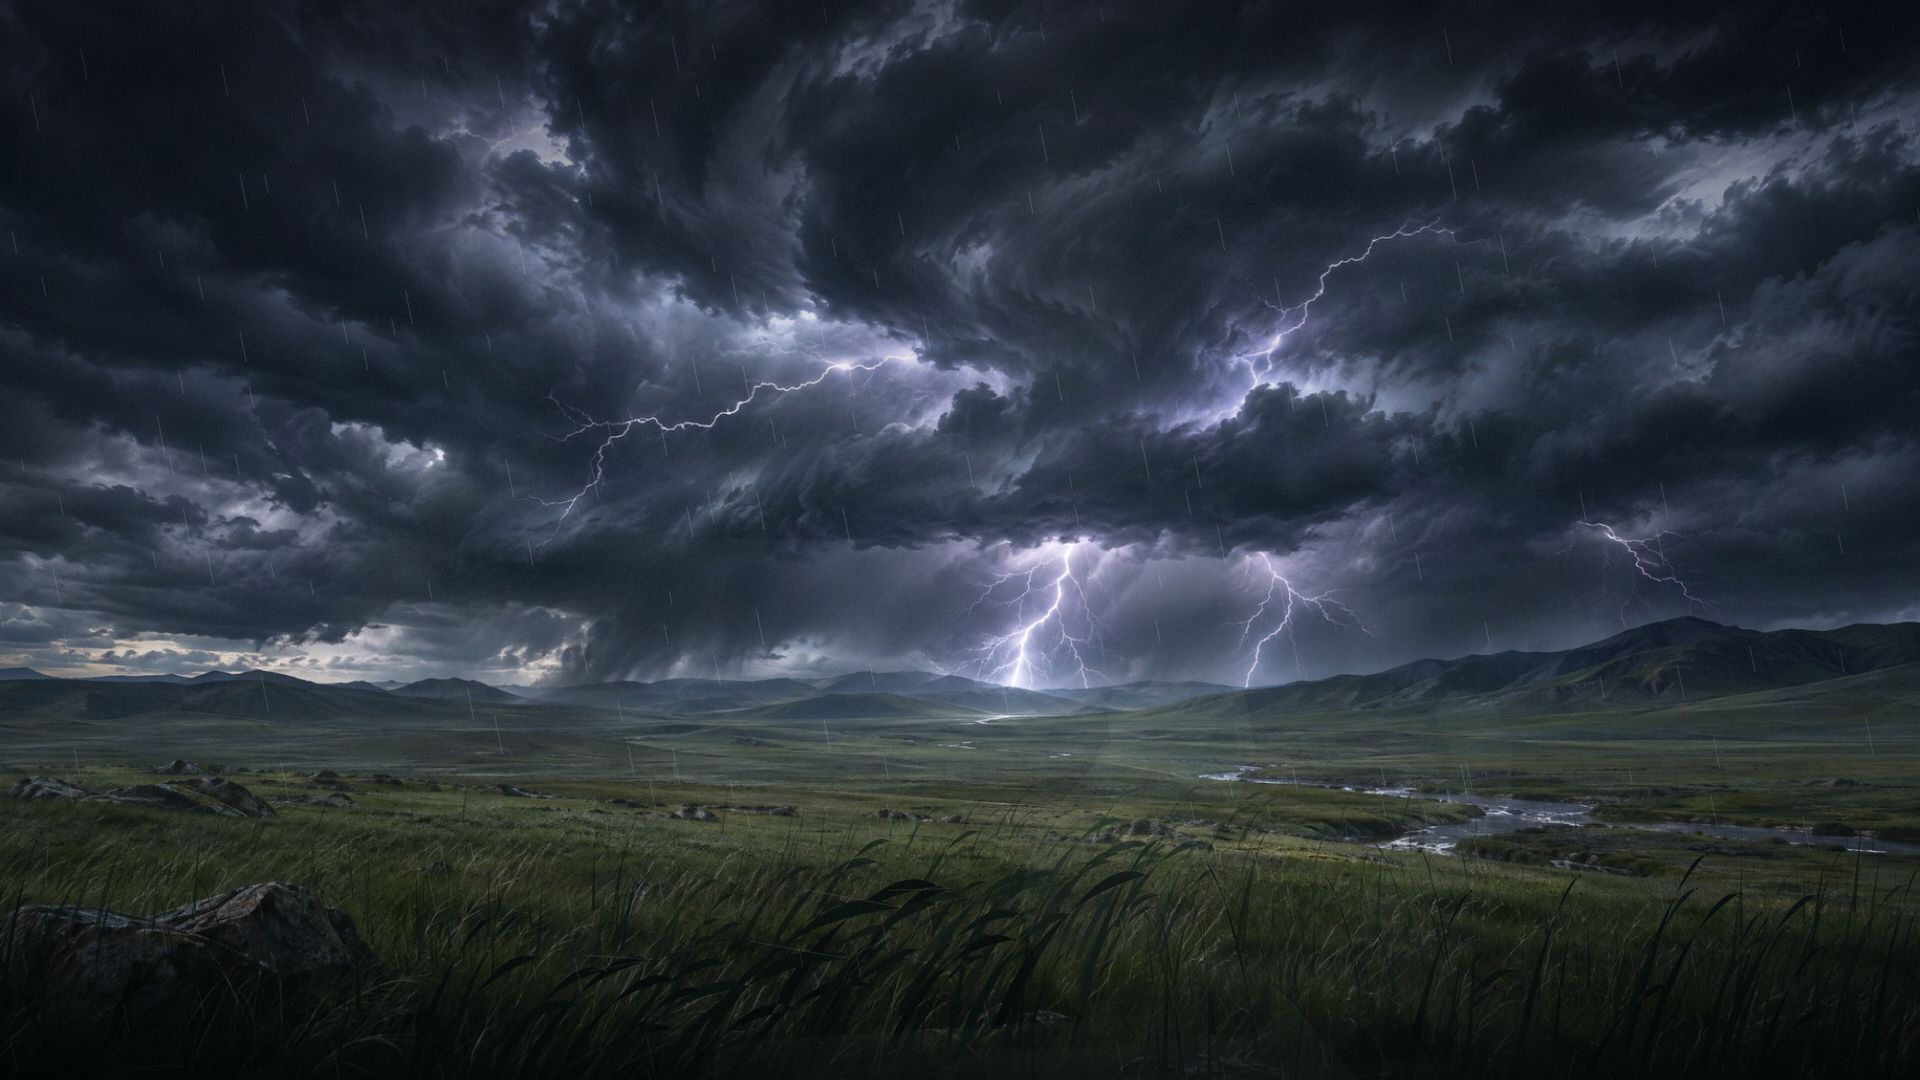
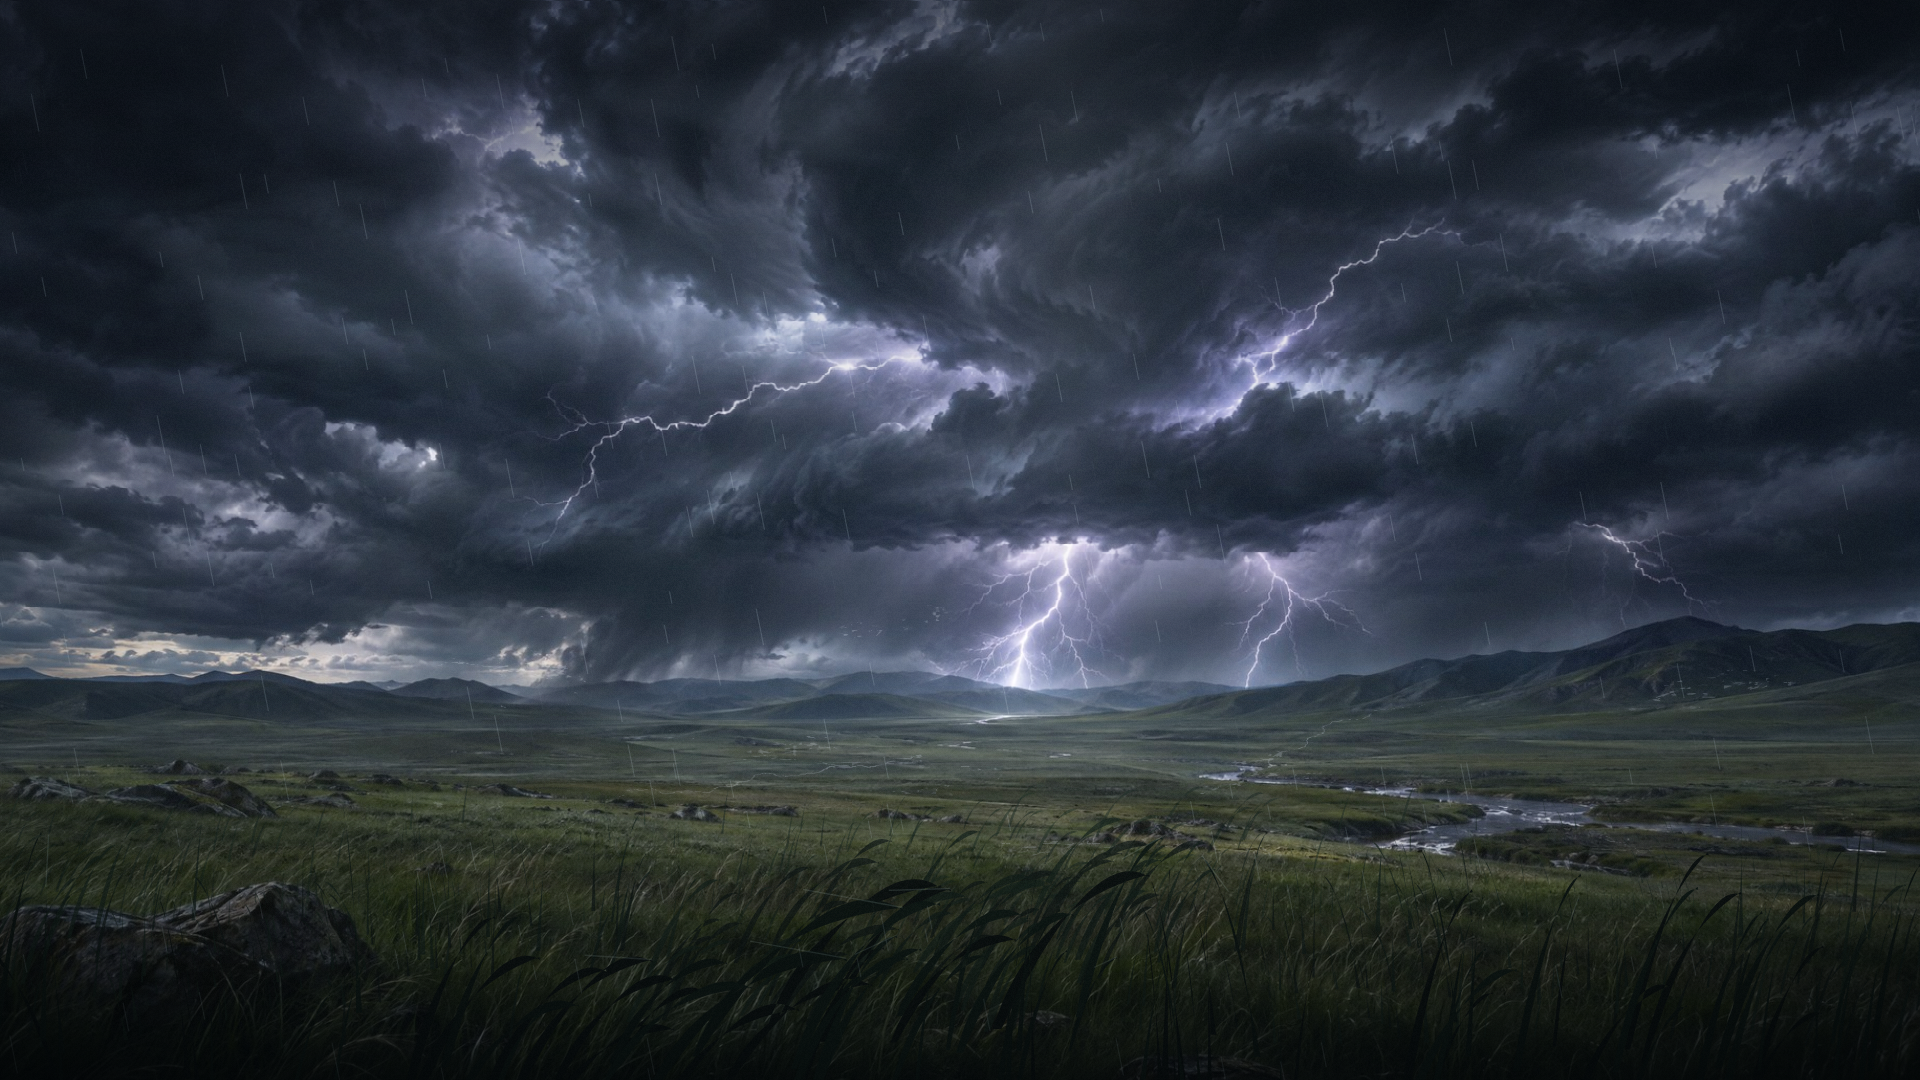
feat(wallpaper): 增强雷原云层翻涌与闪电回击
- 云层增加错位云影与双轴天空波纹，持续翻涌
- 闪电按回击节奏脉冲闪烁并照亮云层
- 移除模拟风的白色高光线条，保留草浪摆动
- 更新 1920x1080 预览图

diff --git a/wallpapers/thunder-prairie/wallpaper.html b/wallpapers/thunder-prairie/wallpaper.html
@@ -585,6 +585,9 @@
   let bgReady = false;
   let photoFrame = null;
   let photoFrameCtx = null;
+  let maskFrame = null;
+  let maskFrameCtx = null;
+  let boltMaskSprite = null;
   let photoPulse = -99;
   let previewDone = false;
 
@@ -593,6 +596,7 @@
     bgImage.decoding = 'async';
     bgImage.onload = () => {
       bgReady = true;
+      if (PHOTO_MODE && !boltMaskSprite) buildBoltMask();
       if (PREVIEW && !previewDone) setupPreview();
     };
     bgImage.src = BG_DATA;
@@ -634,6 +638,7 @@
 
   let cloudLayers = [];
   let cloudWisps = [];
+  let cloudVeils = [];
   let grassLayers = [];
   let treeSegments = [];
   let treeSegmentsSmall = [];
@@ -1072,34 +1077,6 @@
     }
     ctx.globalAlpha = 1;
 
-    // Wind waves: a moving band of lit seed heads rolls across the plain.
-    ctx.save();
-    ctx.globalCompositeOperation = 'screen';
-    for (let li = 1; li < grassLayers.length; li++) {
-      const layer = grassLayers[li];
-      const path = new Path2D();
-      for (let gi = 0; gi < layer.groups.length; gi++) {
-        const group = layer.groups[gi];
-        for (let i = 0; i < group.length; i += 3) {
-          const b = group[i];
-          const wave = Math.sin(b.x * .0072 - t * 1.05 + b.y * .006);
-          if (wave < .52) continue;
-          const w = windAt(b.x, b.y, t);
-          const sway = b.lean + w * (.55 + b.flex * .75) +
-            Math.sin(t * 1.8 + b.phase + b.x * .013) * .08;
-          const bend = sway * b.len;
-          const tipX = b.x + bend;
-          const tipY = b.y - b.len * (1 - Math.min(.34, Math.abs(sway) * .4));
-          path.moveTo(b.x + bend * .55, b.y - b.len * .66);
-          path.lineTo(tipX, tipY);
-        }
-      }
-      ctx.strokeStyle = 'rgba(138, 168, 140, ' + (.14 + li * .018) + ')';
-      ctx.lineWidth = Math.max(.6, (li + 1) * .42);
-      ctx.stroke(path);
-    }
-    ctx.restore();
-
     // A cold sheen catches the seed heads when the lightning fires.
     if (flashTint > .02) {
       ctx.globalCompositeOperation = 'screen';
@@ -1308,8 +1285,6 @@
     if (PREVIEW && !opts.preview) return;
 
     if (PHOTO_MODE) {
-      // The photograph already holds the great bolts. We animate their light,
-      // and occasionally let a small crawler run through the upper cloud.
       photoPulse = time;
       flashX = W * .555;
       flashY = H * .47;
@@ -1415,7 +1390,7 @@
           if (dt >= p) f += Math.exp(-(dt - p) * 11.5);
         }
       }
-      flash = Math.min(.52, f * .52);
+      flash = Math.min(.68, f * .68);
       for (const bolt of bolts) bolt.energy = boltEnergy(bolt, t);
       return;
     }
@@ -1606,6 +1581,7 @@
       for (const path of bolt.paths) {
         const pts = path.pts;
         const isMain = path === bolt.paths[0];
+        const photo = !!bolt.photo;
         const w = path.width * (isMain ? 1 : .72);
 
         // Wide atmospheric glow.
@@ -1613,7 +1589,7 @@
         fxCtx.moveTo(pts[0].x, pts[0].y);
         for (let i = 1; i < pts.length; i++) fxCtx.lineTo(pts[i].x, pts[i].y);
         fxCtx.strokeStyle = 'rgba(122, 166, 236, ' + (.11 * a * path.alpha) + ')';
-        fxCtx.lineWidth = w * (isMain ? 14 : 8);
+        fxCtx.lineWidth = w * (isMain ? (photo ? 7.5 : 14) : (photo ? 4 : 8));
         fxCtx.stroke();
 
         // Blue-white halo.
@@ -1621,7 +1597,7 @@
         fxCtx.moveTo(pts[0].x, pts[0].y);
         for (let i = 1; i < pts.length; i++) fxCtx.lineTo(pts[i].x, pts[i].y);
         fxCtx.strokeStyle = 'rgba(187, 214, 255, ' + (.40 * a * path.alpha) + ')';
-        fxCtx.lineWidth = w * (isMain ? 3.8 : 2.2);
+        fxCtx.lineWidth = w * (isMain ? (photo ? 2.1 : 3.8) : (photo ? 1.25 : 2.2));
         fxCtx.stroke();
 
         // Core.
@@ -1629,7 +1605,7 @@
         fxCtx.moveTo(pts[0].x, pts[0].y);
         for (let i = 1; i < pts.length; i++) fxCtx.lineTo(pts[i].x, pts[i].y);
         fxCtx.strokeStyle = 'rgba(244, 249, 255, ' + (.96 * a * path.alpha) + ')';
-        fxCtx.lineWidth = w * (isMain ? 1.12 : .7);
+        fxCtx.lineWidth = w * (isMain ? (photo ? .86 : 1.12) : (photo ? .52 : .7));
         fxCtx.stroke();
 
         // Bloom pass.
@@ -1639,7 +1615,7 @@
           bloomCtx.lineTo(pts[i].x * scale, pts[i].y * scale);
         }
         bloomCtx.strokeStyle = 'rgba(168, 202, 255, ' + (.32 * a * path.alpha) + ')';
-        bloomCtx.lineWidth = Math.max(2, w * (isMain ? 9 : 5) * scale);
+        bloomCtx.lineWidth = Math.max(2, w * (isMain ? (photo ? 5 : 9) : (photo ? 3 : 5)) * scale);
         bloomCtx.stroke();
       }
     }
@@ -1656,7 +1632,7 @@
     fxCtx.globalCompositeOperation = 'screen';
 
     // Screen-wide lift.
-    fxCtx.fillStyle = 'rgba(123, 154, 199, ' + (.045 * lf) + ')';
+    fxCtx.fillStyle = 'rgba(123, 154, 199, ' + (.06 * lf) + ')';
     fxCtx.fillRect(0, 0, W, H);
 
     if (PHOTO_MODE) {
@@ -1665,7 +1641,7 @@
       const band = fxCtx.createLinearGradient(flashX - W * .28, 0, flashX + W * .28, 0);
       band.addColorStop(0, 'rgba(160, 188, 218, 0)');
       band.addColorStop(.36, 'rgba(174, 200, 226, ' + (.06 * lf) + ')');
-      band.addColorStop(.5, 'rgba(206, 224, 242, ' + (.13 * lf) + ')');
+      band.addColorStop(.5, 'rgba(206, 224, 242, ' + (.17 * lf) + ')');
       band.addColorStop(.64, 'rgba(174, 200, 226, ' + (.06 * lf) + ')');
       band.addColorStop(1, 'rgba(160, 188, 218, 0)');
       fxCtx.fillStyle = band;
@@ -1726,6 +1702,145 @@
   // ---------------------------------------------------------------------------
   // Photographic storm (default)
   // ---------------------------------------------------------------------------
+
+  function makeCloudVeilTexture(w, h, seed, light) {
+    const c = document.createElement('canvas');
+    c.width = w;
+    c.height = h;
+    const x = c.getContext('2d');
+    const img = x.createImageData(w, h);
+    const data = img.data;
+    const n1 = makeValueNoise(seed);
+    const n2 = makeValueNoise(seed + 37);
+    for (let y = 0; y < h; y++) {
+      const v = y / h;
+      for (let xx = 0; xx < w; xx++) {
+        const u = xx / w;
+        const q = fbm(n1, u * 4, v * 2.2, 4) - .5;
+        const d = fbm(n1, u * 3.4 + q * 2.4, v * 2.6 + q * 1.5, 5);
+        const edge = smoothstep(0, .16, v) * (1 - smoothstep(.72, 1, v)) *
+                     smoothstep(0, .10, u) * (1 - smoothstep(.90, 1, u));
+        const a = smoothstep(.42, .61, d) * edge;
+        if (a < .004) continue;
+        const idx = (y * w + xx) * 4;
+        data[idx] = light ? 118 : 54;
+        data[idx + 1] = light ? 138 : 68;
+        data[idx + 2] = light ? 158 : 86;
+        data[idx + 3] = a * 255;
+      }
+    }
+    x.putImageData(img, 0, 0);
+    return c;
+  }
+
+  function buildCloudVeils() {
+    cloudVeils = [];
+    const darkA = makeCloudVeilTexture(640, 320, 9101, false);
+    const darkB = makeCloudVeilTexture(640, 320, 4403, false);
+    const lit = makeCloudVeilTexture(512, 256, 6607, true);
+    cloudVeils = [
+      { tex: darkA, x: -W * .20, y: -H * .02, w: W * .92, h: H * .46,
+        alpha: .32, speed: 19.0, phase: .3, rot: -.025, light: false },
+      { tex: darkB, x: W * .24, y: H * .01, w: W * .86, h: H * .43,
+        alpha: .27, speed: -14.0, phase: 2.1, rot: .018, light: false },
+      { tex: lit, x: W * .10, y: H * .06, w: W * .66, h: H * .33,
+        alpha: .18, speed: 25.0, phase: 4.4, rot: -.012, light: true },
+      { tex: darkA, x: W * .55, y: H * .36, w: W * .52, h: H * .22,
+        alpha: .24, speed: 34.0, phase: 1.4, rot: .015, light: false }
+    ];
+  }
+
+  function drawCloudVeils(t) {
+    for (const v of cloudVeils) {
+      const x = ((v.x + t * v.speed) % (W + v.w * 1.6)) - v.w * .8;
+      const y = v.y + Math.sin(t * .09 + v.phase) * H * .012;
+      const a = v.alpha * (.82 + .18 * Math.sin(t * .13 + v.phase));
+      sceneCtx.save();
+      sceneCtx.globalAlpha = a;
+      sceneCtx.globalCompositeOperation = v.light ? 'screen' : 'multiply';
+      sceneCtx.translate(x + v.w * .5, y + v.h * .5);
+      sceneCtx.rotate(v.rot + Math.sin(t * .021 + v.phase) * .012);
+      sceneCtx.drawImage(v.tex, -v.w * .5, -v.h * .5, v.w, v.h);
+      sceneCtx.restore();
+    }
+    sceneCtx.globalAlpha = 1;
+    sceneCtx.globalCompositeOperation = 'source-over';
+  }
+
+
+  function buildBoltMask() {
+    if (!bgReady) return;
+    const MW = 1920, MH = 1080;
+    const src = document.createElement('canvas');
+    src.width = MW;
+    src.height = MH;
+    const sx = src.getContext('2d');
+    sx.drawImage(bgImage, 0, 0, MW, MH);
+    const srcData = sx.getImageData(0, 0, MW, MH).data;
+
+    // A very cheap low-frequency luminance field. Subtracting it leaves the
+    // thin, high-contrast strokes of the existing lightning.
+    const sw = 240, sh = 135;
+    const small = document.createElement('canvas');
+    small.width = sw;
+    small.height = sh;
+    const smx = small.getContext('2d');
+    smx.drawImage(src, 0, 0, sw, sh);
+    const smData = smx.getImageData(0, 0, sw, sh).data;
+    const blurLum = new Float32Array(sw * sh);
+    for (let i = 0; i < sw * sh; i++) {
+      blurLum[i] = .2126 * smData[i * 4] + .7152 * smData[i * 4 + 1] + .0722 * smData[i * 4 + 2];
+    }
+
+    const mask = document.createElement('canvas');
+    mask.width = MW;
+    mask.height = MH;
+    const mx = mask.getContext('2d');
+    const out = mx.createImageData(MW, MH);
+    const data = out.data;
+    const yLimit = Math.floor(MH * .52);
+
+    for (let y = 0; y < yLimit; y++) {
+      const by = Math.min(sh - 1, (y * sh / MH) | 0);
+      for (let x = 0; x < MW; x++) {
+        const idx = (y * MW + x) * 4;
+        const r = srcData[idx], g = srcData[idx + 1], b = srcData[idx + 2];
+        const lum = .2126 * r + .7152 * g + .0722 * b;
+        const bx = Math.min(sw - 1, (x * sw / MW) | 0);
+        const detail = lum - blurLum[by * sw + bx];
+        if (lum < 165 || detail < 14) continue;
+        const a = clamp((detail - 14) * 8 + (lum - 165) * 2.0, 0, 255);
+        if (a < 16) continue;
+        data[idx] = 222;
+        data[idx + 1] = 234;
+        data[idx + 2] = 255;
+        data[idx + 3] = a;
+      }
+    }
+    mx.putImageData(out, 0, 0);
+
+    // A soft halo plus the sharp channel.
+    const glowSmall = document.createElement('canvas');
+    glowSmall.width = 240;
+    glowSmall.height = 135;
+    const gs = glowSmall.getContext('2d');
+    gs.drawImage(mask, 0, 0, 240, 135);
+
+    const glow = document.createElement('canvas');
+    glow.width = MW;
+    glow.height = MH;
+    const gx = glow.getContext('2d');
+    gx.imageSmoothingEnabled = true;
+    gx.imageSmoothingQuality = 'high';
+    gx.drawImage(glowSmall, 0, 0, MW, MH);
+    gx.globalCompositeOperation = 'lighter';
+    gx.globalAlpha = .92;
+    gx.drawImage(mask, 0, 0);
+    gx.globalAlpha = 1;
+    gx.globalCompositeOperation = 'source-over';
+    boltMaskSprite = glow;
+  }
+
   function buildPhotoGrass() {
     grassLayers = [];
     const rnd = mulberry32(7721);
@@ -1780,6 +1895,15 @@
     const dw = bgImage.width * scale;
     const dh = bgImage.height * scale;
     x.drawImage(bgImage, W * .5 + panX - dw * .5, H * .5 + panY - dh * .5, dw, dh);
+
+    if (maskFrameCtx && boltMaskSprite) {
+      const m = maskFrameCtx;
+      m.clearRect(0, 0, W, H);
+      const mScale = Math.max(W / 1920, H / 1080) * zoom;
+      const mw = 1920 * mScale;
+      const mh = 1080 * mScale;
+      m.drawImage(boltMaskSprite, W * .5 + panX - mw * .5, H * .5 + panY - mh * .5, mw, mh);
+    }
   }
 
   function drawPhotoScene(t) {
@@ -1798,10 +1922,35 @@
     const warpH = H * .56;
     for (let y = 0; y < warpH; y += strip) {
       const fade = 1 - smoothstep(warpH * .56, warpH, y);
-      const off = (Math.sin(t * .050 + y * .013) * 2.7 +
-                   Math.sin(t * .017 + y * .0045) * 1.3) * fade;
+      const off = (Math.sin(t * .14 + y * .017) * 8.4 +
+                   Math.sin(t * .061 + y * .006) * 3.4) * fade;
+      const oy = Math.sin(t * .11 + y * .021) * 1.6 * fade;
       const sh = Math.min(strip + .5, warpH - y + .5);
-      sceneCtx.drawImage(photoFrame, 0, y, W, sh, off, y, W, sh);
+      sceneCtx.drawImage(photoFrame, 0, y, W, sh, off, y + oy, W, sh + 1.6);
+    }
+
+    drawCloudVeils(t);
+
+    // Animate the lightning already in the photograph: its own channel and
+    // the cold cloud edges around it flare in return strokes.
+    if (boltMaskSprite && maskFrame && flash > .008) {
+      const spark = .56 + .44 * Math.sin((t - photoPulse) * 92);
+      const a = clamp(flash * 2.45, 0, 1) * spark;
+      sceneCtx.save();
+      sceneCtx.globalCompositeOperation = 'screen';
+      sceneCtx.globalAlpha = a;
+      const strip2 = 8;
+      const warpH2 = H * .56;
+      for (let y = 0; y < warpH2; y += strip2) {
+        const fade = 1 - smoothstep(warpH2 * .56, warpH2, y);
+        const off = (Math.sin(t * .14 + y * .017) * 8.4 +
+                     Math.sin(t * .061 + y * .006) * 3.4) * fade;
+        const oy = Math.sin(t * .11 + y * .021) * 1.6 * fade;
+        const sh = Math.min(strip2 + .5, warpH2 - y + .5);
+        sceneCtx.drawImage(maskFrame, 0, y, W, sh, off, y + oy, W, sh + 1.6);
+      }
+      sceneCtx.drawImage(maskFrame, 0, warpH2, W, H - warpH2);
+      sceneCtx.restore();
     }
 
     // Heavy top, wet bottom. Keeps the HUD legible and the grass anchored.
@@ -1859,7 +2008,6 @@
     sceneCtx.restore();
 
     drawGrass(sceneCtx, t, flash);
-    drawFieldSheen(sceneCtx, t, flash * .65);
   }
 
   function drawScene(t) {
@@ -2084,7 +2232,13 @@
       photoFrame.width = W;
       photoFrame.height = H;
       photoFrameCtx = photoFrame.getContext('2d');
+      maskFrame = document.createElement('canvas');
+      maskFrame.width = W;
+      maskFrame.height = H;
+      maskFrameCtx = maskFrame.getContext('2d');
+      if (bgReady && !boltMaskSprite) buildBoltMask();
       buildPhotoGrass();
+      buildCloudVeils();
       buildRain();
       flashX = W * .555;
       flashY = H * .47;
@@ -2121,7 +2275,7 @@
       photoPulse = time - .06;
       bolts = [];
       updateFlash(time);
-      flash = Math.max(flash, .50);
+      flash = Math.max(flash, .62);
       render(time, 0, { rainDt: .016 });
       return;
     }
